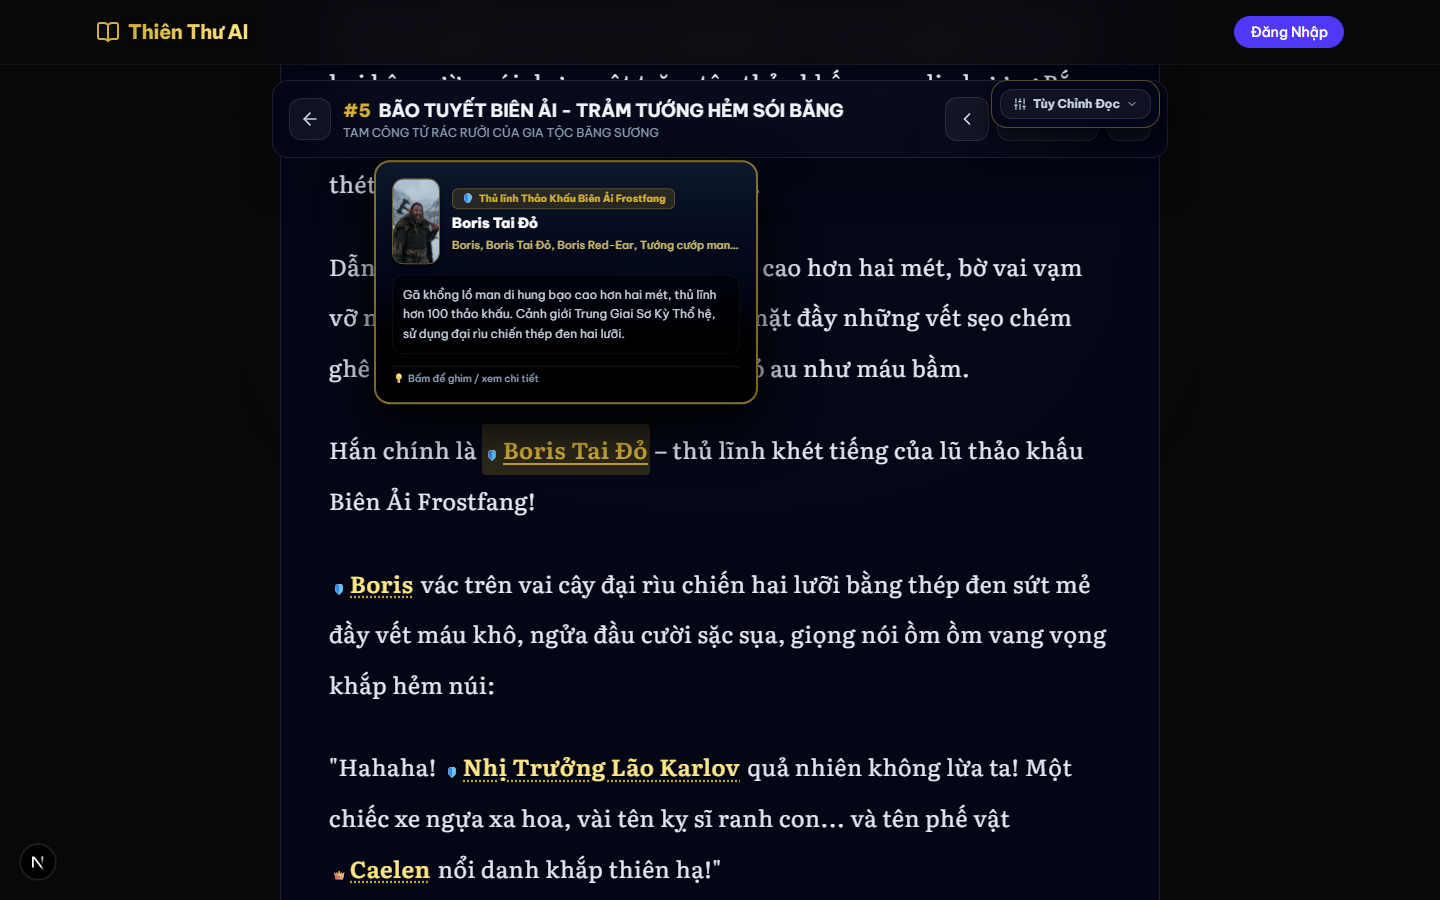
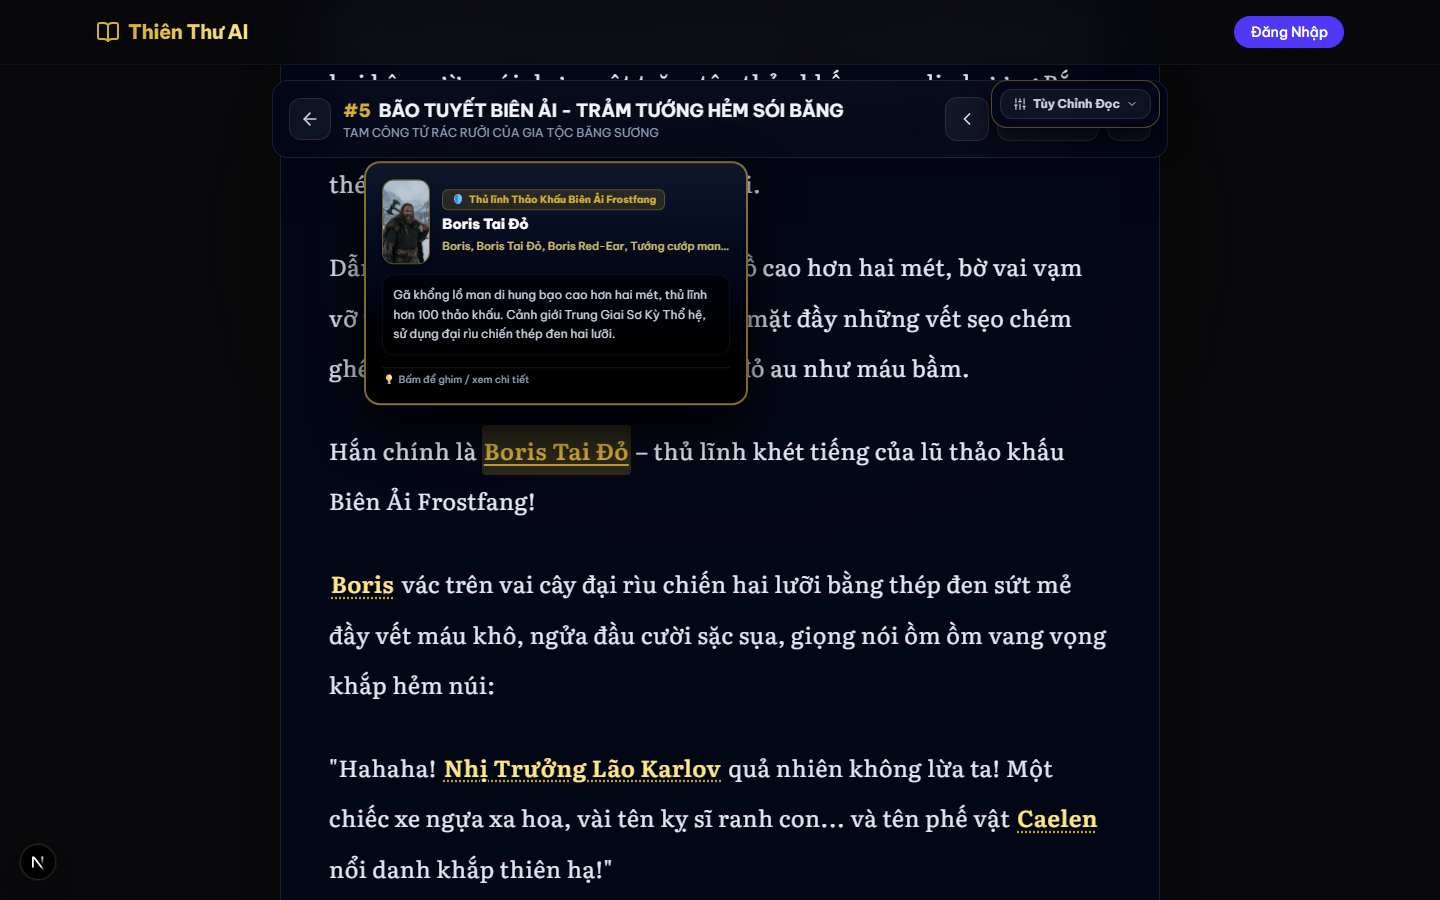
style(reader): remove inline emojis from prose keywords for pristine distraction-free reading experience

diff --git a/src/components/InteractiveReader.tsx b/src/components/InteractiveReader.tsx
@@ -82,7 +82,6 @@ function renderInteractiveSegment(
     const matched = termMap.get(part.toLowerCase());
     if (matched) {
       if (matched.type === "character") {
-        const emoji = getRoleEmoji(matched.data.role);
         return (
           <button
             key={`${keyPrefix}-${partIdx}`}
@@ -93,13 +92,11 @@ function renderInteractiveSegment(
             className="inline font-semibold text-amber-200 underline decoration-dotted decoration-[#d4af37]/90 underline-offset-[4px] hover:decoration-solid hover:text-[#d4af37] hover:bg-[#d4af37]/20 px-0.5 rounded transition-all cursor-pointer select-none"
             title={`Tra cứu nhân vật: ${matched.data.name}`}
           >
-            <span className="mr-0.5 text-xs inline-block transform scale-90">{emoji}</span>
             {part}
           </button>
         );
       }
       if (matched.type === "lore") {
-        const emoji = (matched.data.category && CATEGORY_EMOJIS[matched.data.category]) || CATEGORY_EMOJIS.default;
         return (
           <button
             key={`${keyPrefix}-${partIdx}`}
@@ -110,7 +107,6 @@ function renderInteractiveSegment(
             className="inline font-semibold text-cyan-200 underline decoration-dotted decoration-cyan-400/90 underline-offset-[4px] hover:decoration-solid hover:text-cyan-300 hover:bg-cyan-500/20 px-0.5 rounded transition-all cursor-pointer select-none"
             title={`Tra cứu chú giải: ${matched.data.term}`}
           >
-            <span className="mr-0.5 text-xs inline-block transform scale-90">{emoji}</span>
             {part}
           </button>
         );
